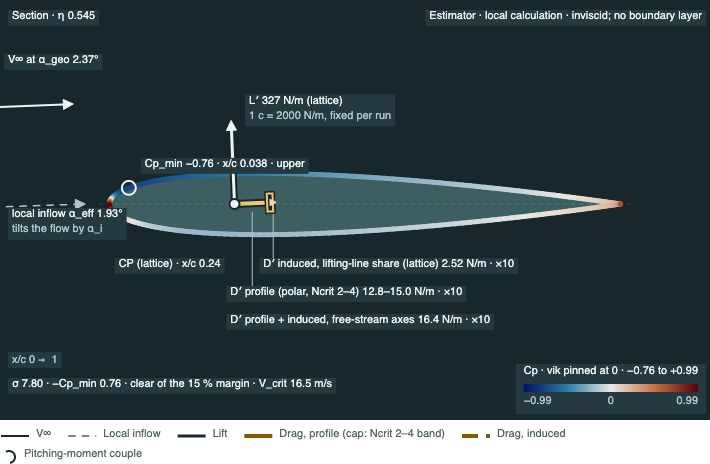
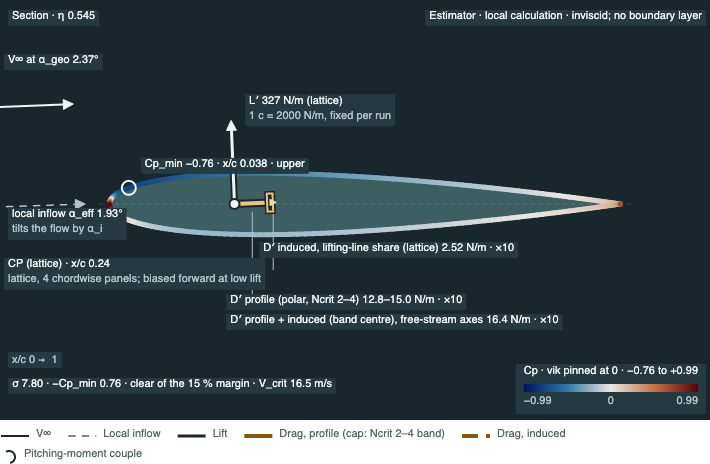
docs(sfv): re-captures A-E and the tip strip, red-first receipts; fixed plates drawn last (Ruling 131)

Changed region(s): [[0.0, 0.5129, 0.8056, 0.694]]

diff --git a/src/CfdWorkbench.Desktop/Analysis/SectionProfileView.cs b/src/CfdWorkbench.Desktop/Analysis/SectionProfileView.cs
@@ -106,7 +106,9 @@ public sealed class SectionProfileView : Control
         Segments = segments;
 
         // The plates that stand in fixed places are laid out first and the force labels then find free room among them
-        // (Ruling 131 repair: no two plates, and no plate and the Cp_min ring, may overlap).
+        // (Ruling 131 repair: no two plates, and no plate and the Cp_min ring, may overlap). They are drawn last, over the arrows,
+        // as before: only the layout moves forward.
+        deferred = [];
         Point marker = P(profile.CpMinPanel.X, profile.CpMinPanel.Z);
         placed.Add(("Cp_min ring", new Rect(marker.X - 8, marker.Y - 8, 16, 16)));
         string markerText = Labels.CpMinMarker(profile.CpMinPanel.Cp, profile.CpMinPanel.X, profile.Side);
@@ -126,8 +128,27 @@ public sealed class SectionProfileView : Control
         // Legend plate, bottom right: title, the ramp bar (extent ±range, 0 at the centre), its ends.
         string title = "Cp · vik pinned at 0 · " + Num(profile.CpLow) + " to +" + Num(profile.CpHigh);
         double barWidth = Math.Max(150, Text(title, ink).Width), left = w - 8 - barWidth - 8;
-        context.DrawRectangle(soft, null, new Rect(left - 4, h - 56, barWidth + 16, 50), 3);
         placed.Add(("legend", new Rect(left - 4, h - 56, barWidth + 16, 50)));
+        deferred.Add(() => DrawLegend(context, title, barWidth, left, h, range, ink, mute, soft));
+
+        if (profile.Cavitation is { } line)
+        {
+            double lineWidth = Text(line, ink).Width + 8;
+            Plate(context, line, new Point(8, left - 4 < 8 + lineWidth ? h - 78 : h - 30), ink, soft);
+        }
+        List<Action> fixedPlates = deferred;
+        deferred = null;
+        if (profile.Forces is { } forces) DrawForces(context, forces, P, s, ox, oy, w, h, viewport, ink, mute, soft, profile.Side);
+        context.DrawEllipse(null, new Pen(ink, 2), marker, 7, 7);
+        foreach (Action draw in fixedPlates) draw();
+        Plates = placed.ToArray();
+    }
+
+    private List<Action>? deferred;
+
+    private void DrawLegend(DrawingContext context, string title, double barWidth, double left, double h, double range, IBrush ink, IBrush mute, IBrush soft)
+    {
+        context.DrawRectangle(soft, null, new Rect(left - 4, h - 56, barWidth + 16, 50), 3);
         context.DrawText(Text(title, ink), new Point(left + 4, h - 54));
         var bar = new LinearGradientBrush { StartPoint = new RelativePoint(0, 0, RelativeUnit.Relative), EndPoint = new RelativePoint(1, 0, RelativeUnit.Relative) };
         for (int i = 0; i < stops.Length; i++) bar.GradientStops.Add(new GradientStop(stops[i], i / (double)(stops.Length - 1)));
@@ -136,15 +157,6 @@ public sealed class SectionProfileView : Control
         context.DrawText(lowEnd, new Point(left + 4, h - 24));
         context.DrawText(zero, new Point(left + 4 + (barWidth - zero.Width) / 2, h - 24));
         context.DrawText(highEnd, new Point(left + 4 + barWidth - highEnd.Width, h - 24));
-
-        if (profile.Cavitation is { } line)
-        {
-            double lineWidth = Text(line, ink).Width + 8;
-            Plate(context, line, new Point(8, left - 4 < 8 + lineWidth ? h - 78 : h - 30), ink, soft);
-        }
-        if (profile.Forces is { } forces) DrawForces(context, forces, P, s, ox, oy, w, h, viewport, ink, mute, soft, profile.Side);
-        context.DrawEllipse(null, new Pen(ink, 2), marker, 7, 7);
-        Plates = placed.ToArray();
     }
 
     private static readonly double[] Shifts = [0, 8, -8, 16, -16, 24, -24, 32, -32, 48, -48, 64, -64, 80, -80, 96, -96, 120, -120];
@@ -379,8 +391,12 @@ public sealed class SectionProfileView : Control
         FormattedText t = Text(text, ink);
         var rect = new Rect(at.X, at.Y - 12, t.Width + 8, 16);
         placed.Add((text, rect));
-        context.DrawRectangle(soft, null, rect, 2);
-        context.DrawText(t, new Point(at.X + 4, at.Y - 11));
+        void Draw()
+        {
+            context.DrawRectangle(soft, null, rect, 2);
+            context.DrawText(t, new Point(at.X + 4, at.Y - 11));
+        }
+        if (deferred is { } later) later.Add(Draw); else Draw();
         return rect;
     }
 

diff --git a/docs/proof/sfv/red-first.md b/docs/proof/sfv/red-first.md
@@ -21,7 +21,7 @@ exist, so the new checks do not compile: the red is "absent". The build run foll
 
 **Green on the build** (`CFD_TEST_ONLY=SectionForce_ tools/run-suite.sh dotnet tests/CfdWorkbench.Analysis.Tests/bin/Release/net10.0/CfdWorkbench.Analysis.Tests.dll`):
 `PASS` on all five fast checks, `RESULT failures=0`; the readiness check
-`SectionForce_LatticeRun_InducedSharesSumToWingDi_AndAnchorFromStrip` passes on a real lattice run (`--readiness`).
+`SectionForce_LatticeRun_InducedSharesConsistentWithWingDi_AndAnchorFromStrip` passes on a real lattice run (`--readiness`).
 
 **Red on a planted mutant.** One mutant at a time is planted in `SectionDisplay.cs` or `Labels.cs`, the harness is built and run, the FAIL line is
 recorded, and the file is restored from git (`scratchpad/trk-sfv-build/mutants.sh`). Every FAIL line below is from that run.
@@ -77,14 +77,90 @@ RESULT failures=1
 ```
 
 ### Mutant (readiness check, real lattice run): induced share taken from the near-field Fx
+This check is a **consistency** check, not verification (Ruling 131): both sides are read from the same Gamma and w_T, so it holds for any weights that add up. The distribution is checked by the elliptic-wing fixture below.
 ```
-FAIL SectionForce_LatticeRun_InducedSharesSumToWingDi_AndAnchorFromStrip InvalidOperationException: sum of strip d' x width equals the wing D_i expected 3.090930793438014; actual -3.3106151683997487
+FAIL SectionForce_LatticeRun_InducedSharesConsistentWithWingDi_AndAnchorFromStrip InvalidOperationException: sum of strip d' x width equals the wing D_i expected 3.090930793438014; actual -3.3106151683997487
 RESULT failures=1
 ```
-The unmutated run: `PASS SectionForce_LatticeRun_InducedSharesSumToWingDi_AndAnchorFromStrip`, `RESULT failures=0`; stated tolerance 1e-9 relative (observed equal to rounding).
+The unmutated run: `PASS SectionForce_LatticeRun_InducedSharesConsistentWithWingDi_AndAnchorFromStrip`, `RESULT failures=0`; stated tolerance 1e-9 relative (observed equal to rounding).
 
 ### Mutant (Desktop readiness, drawn geometry): V-inf and drag drawn mirrored (falling), as the mockup draws them
 ```
 FAIL SectionForceVectors_Drawn_LiftPerpendicularDragParallelToFreeStream_AnchorByRule Exception: V∞ is drawn at α_geo to the chord: expected 3.5, got -3.5000000000000004
 ```
 Unmutated: `PASS SectionForceVectors_Drawn_LiftPerpendicularDragParallelToFreeStream_AnchorByRule` (`--readiness`, `CFD_TEST_ONLY=SectionForceVectors_`).
+
+
+# Repair cycle 1 (Ruling 131)
+
+Order of work for each item: the check first (red: the FAIL line below, from the run before the fix), then the fix (green). Every mutant was planted after
+the commit that held the work and restored with `git checkout -- <file>`; nothing was lost. Commands: Analysis fast `CFD_TEST_ONLY=SectionForce_ tools/run-suite.sh dotnet
+tests/CfdWorkbench.Analysis.Tests/bin/Release/net10.0/CfdWorkbench.Analysis.Tests.dll`, Analysis readiness the same with `--readiness`, Desktop readiness
+`CFD_TEST_ONLY=SectionForceVectors_ tools/run-suite.sh dotnet run -c Release --no-build --project tests/CfdWorkbench.Desktop.Tests/CfdWorkbench.Desktop.Tests.csproj -- --readiness`.
+
+## Item 1: the tip strip is Not judged
+
+Check: `SectionForce_TipStrip_NotJudged_NoAnchorNoJudgedValues_Ruling131` (Analysis readiness, real lattice run). Red, on the code that took the nearest strip with `MinBy`
+and never read `strip.Provisional`:
+```
+FAIL SectionForce_TipStrip_NotJudged_NoAnchorNoJudgedValues_Ruling131 InvalidOperationException: tip strip, eta 1: no force vectors, so no CP anchor is drawn expected ; actual SectionForces { Eta = -0.9903926402016152, ChordMeters = 0.014671025211948012, ...
+RESULT failures=1
+```
+Green (after `ForcesAt` reads the provisional tip rule of `AnalysisProjection.State` and the profile and table say `Labels.TipNotJudged`):
+```
+PASS SectionForce_TipStrip_NotJudged_NoAnchorNoJudgedValues_Ruling131
+RESULT failures=0
+```
+It asserts, at eta 1 and at the outermost strip's own eta (0.990), no vectors, `ForcesNotJudged` = "Not judged — tip strip", one table row with the same words, no L', x_cp or M' row, and that
+the interior strip (eta 0.5) keeps its vectors.
+
+## Item 2: the 4-panel bias wording
+
+Checks: `SectionForce_Labels_EqualTheirDesignRows_Ruling130` (fast; now also COPY-SF17 and the amended SF9 and SF12 rows) and, in the readiness lattice check, the table rows named by `Labels.XcpRowLabel(nc)` and
+`Labels.CoupleRowLabel(nc)`. Red (with the label members stubbed to the old text, so the failure is a behaviour and not a compile error):
+```
+FAIL SectionForce_Labels_EqualTheirDesignRows_Ruling130 InvalidOperationException: COPY-SF9 row in DESIGN.md expected True; actual False
+FAIL SectionForce_LatticeRun_InducedSharesSumToWingDi_AndAnchorFromStrip InvalidOperationException: Ruling 131: the x_cp row names the lattice, its panels and the forward bias expected True; actual False
+```
+(the second line is the readiness run with the label text real and the table not yet using it). Green: both pass, `RESULT failures=0`. DESIGN.md rows: SF9 and SF12 amended and SF17 added, "approved — Ruling 131".
+The chordwise-convergence measurement is `nc-convergence.md` (a measurement, not a gate).
+
+## Item 3: labels
+
+The band-centre wording of SF9 and the "(panel, 2D inviscid)" wording of the Cm c/4 row are asserted by the same label check (SF9, SF12). Their red is the first FAIL above (SF9 row). Wording: "D′ profile + induced (band centre), free-stream axes
+<v> <unit> · ×<k>" (the approved words with only "(band centre)" added) and "Cm c/4 (panel, 2D inviscid)".
+
+## Item 4: the induced-drag distribution
+
+The sum check is renamed `SectionForce_LatticeRun_InducedSharesConsistentWithWingDi_AndAnchorFromStrip` (consistency, not verification). New: `SectionForce_EllipticWing_InducedShareFollowsSqrtOneMinusEtaSquared`
+(Analysis readiness): the exact elliptic planform (zero twist, uniform alpha, AR 8, 32 strips per half, the F-15 fixture), d'(y) normalised at the centre strip against sqrt(1 - eta^2):
+**3 % for |eta| <= 0.5 and 10 % for 0.5 < |eta| <= 0.8**, plus the sum against the Trefftz-plane drag of the elliptic wing. The tolerances are stated from the measured profile, not widened to pass:
+measured worst deviation 0.0181 (inner) and 0.0857 (outer), against a finite-AR lattice whose w_T falls off toward the tip (F-15: alpha_i / (CL / (pi AR)) is 1.016 at the centre, 1.001 at eta 0.5, 0.937 at 0.8, 0.837 at 0.9).
+
+Mutants (planted after the commit, restored):
+```
+### Mutant: induced share taken from the near-field Fx
+FAIL SectionForce_LatticeRun_InducedSharesConsistentWithWingDi_AndAnchorFromStrip ... sum of strip d' x width equals the wing D_i expected 3.090930793438014; actual -3.3106151683997487
+MEASURE SFV elliptic AR 8, 32 per half: worst |d'/(c sqrt(1-eta^2)) - 1| 0.0001 for eta <= 0.5, 0.0049 for 0.5 < eta <= 0.8
+FAIL SectionForce_EllipticWing_InducedShareFollowsSqrtOneMinusEtaSquared ... the strip shares sum to the Trefftz-plane induced drag of the elliptic wing expected 1.7272152596788477; actual -7.446711676630762
+
+### Mutant: induced share from a constant Gamma (0.02), not the strip's own
+FAIL SectionForce_LatticeRun_InducedSharesConsistentWithWingDi_AndAnchorFromStrip ... expected 3.090930793438014; actual 0.7222340390348349
+MEASURE SFV elliptic AR 8, 32 per half: worst |d'/(c sqrt(1-eta^2)) - 1| 0.1329 for eta <= 0.5, 0.5097 for 0.5 < eta <= 0.8
+FAIL SectionForce_EllipticWing_InducedShareFollowsSqrtOneMinusEtaSquared ... d'(y) follows sqrt(1 - eta^2) within 3% for eta <= 0.5: 13.29% expected True; actual False
+```
+Reading: the near-field mutant has the elliptic *shape* (Fx is also proportional to Gamma here: shape deviation 0.0001), so only the Trefftz-plane sum catches it; the constant-Gamma mutant has the right
+total and the wrong shape, so only the distribution check catches it. Neither check alone is enough, which is why both stay.
+
+## Item 6: no two plates overlap in states A to E
+
+Check: `SectionForceVectors_Plates_DoNotOverlap_StatesAToE` (Desktop readiness; the five states with the numbers of the real runs, at 710 and 974 px, the Cp_min marker at the leading edge on either surface;
+the plates, the Cp_min ring and the legend are recorded in `SectionProfileView.Plates`). Red, with the plates recorded and no avoidance yet:
+```
+FAIL SectionForceVectors_Plates_DoNotOverlap_StatesAToE Exception: state A, Cp_min lower, width 710: "local inflow α_eff 1.93°" 8, 208, 118.59619140625, 32 overlaps "Cp_min ring" 106.452, 202.1344, 16, 16
+```
+Green after the layout (fixed plates laid out first, force labels moved to the nearest free room, fixed plates still drawn last):
+```
+PASS SectionForceVectors_Plates_DoNotOverlap_StatesAToE
+PASS SectionForceVectors_Drawn_LiftPerpendicularDragParallelToFreeStream_AnchorByRule
+```

diff --git a/docs/proof/sfv/captures.md b/docs/proof/sfv/captures.md
@@ -21,6 +21,11 @@ Rendered from the app: the real `ShellHost` in a 1500 x 1320 window (`RenderTarg
 (64 x 4, cosine), Section document open, station selected. `NN-app.png` is the whole window; `NN-profile.png` is the profile control alone.
 The capture harness was a scratch Desktop check; it is not in the tree. Every capture below was opened and read.
 
+**Re-captured in repair cycle 1 (Ruling 131).** All six captures were taken again after the repairs, from the same fixtures, with a harness rebuilt
+for this cycle (the first one was not kept; the rebuilt one is also scratch). The values of A to D and E equal the first captures' (L' 327.43, Cl_local 0.2014,
+x_cp 0.245; B Cl_local 0.0121; E Cl_local 0.0993, x_cp 1.184, M' -18.08 N.m/m: the same 4412 construction and alpha -2.535). What changed on the pictures is
+only what the repairs changed: the bias wording, the band-centre and 2D-inviscid wording, the plate layout, and the tip strip.
+
 **Fixtures (real runs).** The wing is the Example planform (120 mm chord, 450 mm half span, twist 0 to -2 deg) with a section assignment at
 245 mm (eta 0.5444), the strip the main example is (Ruling 128 (5)); the shown station is that strip. Salt water 15 degC, 5.14 m/s, depth 0.6 m.
 A, B, D carry a NACA 0012 profile (unflagged); C carries the Example's own `section-a` (not the NACA 0012 family, so the polar flags it,
@@ -35,8 +40,21 @@ COPY-364); E carries a NACA 4412 built from the cambered camber line (m 0.04, p 
 | C. Flagged drag | `03-flagged-drag.png` | `captures/C-app.png`, `C-profile.png` | as A on the Example's `section-a`: COPY-364 under the table, the profile row ends "· flagged"; the polar returned no low-confidence flag on this strip, so the "· low confidence" suffix is not on the capture (it is pinned by the label row, COPY-SF10) | built, low-confidence suffix not exercised by a real run |
 | D. Imperial | `04-imperial.png` | `captures/D-app.png`, `D-profile.png` | as A with the Units switch on Imperial: L' 22.4 lbf/ft, scale 1 c = 100 lbf/ft (re-derived in the unit shown, so the arrows differ from A), M' 0.0450 lbf.ft/ft, V_crit 32.0 kn | built |
 | E. Cambered, cruise | `05-cambered-cruise.png` | `captures/E-app.png`, `E-profile.png` | NACA 4412 at alpha -2.535 deg, found so that Cl_local = 0.10 (0.0993); panel Cm c/4 -0.105; x_cp would be 1.184: off the section, so c/4 + couple (M' -18.1 N.m/m), x_cp "Undefined · the centre of pressure is off the section" | built |
+| F. Tip strip (Ruling 131, not a mockup state) | none (the mockup has no tip state) | `captures/F-tip-app.png`, `F-tip-profile.png` | NACA 0012 at alpha 3.00 deg, the tip station (eta 1, the provisional strip): no vectors, no CP anchor, no key strip; the profile carries the plate "Not judged — tip strip" (COPY-220) and the strip table is one row, "Result: Not judged — tip strip"; no L', x_cp or M' is shown | built (a repair) |
 
 No mockup state is "not built".
+
+## What the repairs changed on the captures (repair cycle 1, Ruling 131)
+
+| Repair | Where to see it | Observed |
+|---|---|---|
+| Tip strip is Not judged | `F-tip-app.png`, `F-tip-profile.png` | the profile plate and the table row both read "Not judged — tip strip"; no arrows, no anchor, no couple |
+| 4-panel bias wording | A to E, the strip table and the profile | table rows read "x_cp/c (lattice, 4 chordwise panels; biased forward at low lift)" and "M' c/4 (lattice, 4 chordwise panels; biased forward at low lift)"; on the profile the CP label (A, C, D) and the couple label (B, E) carry the same wording as a second line |
+| Drag total is the band centre | A to E, the profile and the table | "D' profile + induced (band centre), free-stream axes ..." (A: 16.4 N/m = 13.9 band centre + 2.52 induced) |
+| Cm c/4 is 2D inviscid | the strip table | "Cm c/4 (panel, 2D inviscid)" |
+| No two plates overlap | E, `E-profile.png` | the "local inflow alpha_eff" plate no longer sits on the leading-edge Cp_min ring and its plate; it stands below them. The plate rectangles of A to E are asserted not to intersect (`SectionForceVectors_Plates_DoNotOverlap_StatesAToE`, two widths, Cp_min on either surface) |
+
+Noted, not changed (Not in scope): the conditions band reads "σ Unavailable — depth not set" while the profile's cavitation line reads "σ 7.80" (the Coordinator tracks it); and the left Properties pane's "Lift / span" row stays in N/m under Imperial (D), a wing-level row that predates this track.
 
 ## Differences, named
 
@@ -46,7 +64,7 @@ No mockup state is "not built".
 | 1 N.m/m = 0.737562 lbf.ft/ft (page script `NMF`) | 1 N.m/m = 0.224809 lbf.ft/ft | A moment per span is a force: N.m/m = N, so lbf.ft/ft = lbf. The page factor is the per-metre-not-converted one. Pinned by `SectionForce_Imperial_ForceAndMomentPerSpan`. |
 | One profile height 420 px, key outside the viewport | the profile control is 420 px plus a 44 px key strip on the page surface; the Cp-only view keeps 240 px | The key sits on the page surface under the viewport as in the mockup. |
 | The axis plate under the chord | with vectors, the axis plate stands bottom left above the cavitation line (as the mockup does) | The plates under the chord carry the anchor and drag labels. |
-| M' label right of the anchor above the chord | M' label on the side of the chord away from the Cp_min plate (below for an upper Cp_min, above for a lower one) | The mockup's Cp_min plate is right-aligned left of the marker; the built plate starts at the marker and would sit on it. |
+| M' label right of the anchor above the chord | M' label (two lines since Ruling 131) on the side of the chord away from the Cp_min plate (below for an upper Cp_min, above for a lower one); every label is moved to free room when its first place meets another plate or the Cp_min ring | The mockup's Cp_min plate is right-aligned left of the marker; the built plate starts at the marker and would sit on it. |
 | Illustrative numbers (L' 479 N/m, x_cp 0.27, ...) | real values from the lattice run (table above) | The mockup says so on its face. |
 | Table values with units in the value column | the same rows, value and unit in the app's two columns; notes right of the table (COPY-328, COPY-364, COPY-SF15) | The app's `ResultRow` shape. |
 | (not in the mockup) | the left Properties pane still reads "Lift / span 327.433 N/m" under Imperial | Existing Properties row, not in this track's scope (a separate wing-level surface). |
